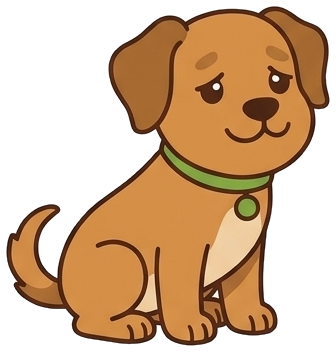
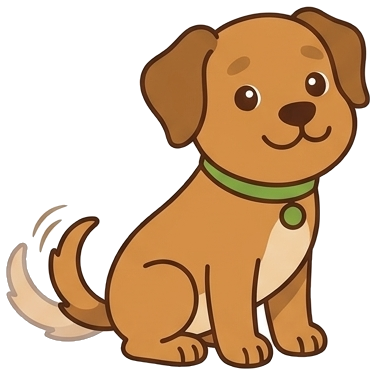
Art: four better poses, and the puppy is called Oreo [skip netlify]
Claude-Session: https://claude.ai/code/session_01CsV4nd8eAcV5zHHgHknrTq

diff --git a/tools/art/cut.py b/tools/art/cut.py
@@ -52,6 +52,7 @@ J=[
  ('07-with-treasures',['with-bandana','with-bed','with-bowl','with-kennel','with-rope-toy','with-ball'],'puppy',2,3,False),
  ('04-props',['bed','ball','bowl','bandana','kennel','rope-toy','stepping-stone','signpost','bush'],'props',3,3,False),
  ('09-awards',['medal','trophy','rosette','paw-badge','crown','shield','','','paw-shield'],'awards',3,3,False),
+ ('10-fixes',['listening','not-yet','trick-spin','with-bowl'],'puppy',2,2,False),   # replaces the weak first versions
  ('08-friends',['kitten','bunny','elephant','lion','giraffe','monkey','zebra','hippo','owl'],'friends',3,3,False),
 ]
 for src,names,d,r,c,t in J:

diff --git a/art/README.md b/art/README.md
@@ -1,5 +1,7 @@
 # Art
 
+The puppy is called **Oreo**. She is introduced to the child as the sister of Star, the first user's own dog.
+
 The mascot and all illustrations, made on 15 November 2026 with Google's Nano Banana image model. The prompts are in `prompts.md`. Nothing in this folder is shipped as it is: the app copies and shrinks what it uses.
 
 ## Rules for every picture
@@ -13,8 +15,8 @@ The mascot and all illustrations, made on 15 November 2026 with Google's Nano Ba
 
 | Folder | What | Files |
 |---|---|---|
-| `source/` | The sheets exactly as they came from the image model, plus the reference puppy | 11 |
-| `puppy/` | The puppy, one pose per file, transparent background | 28 |
+| `source/` | The sheets exactly as they came from the image model, plus the reference puppy | 12 |
+| `puppy/` | The puppy, one pose per file, transparent background | 29 |
 | `props/` | Treasures and pieces for the path and stories | 9 |
 | `awards/` | Medal, trophy, rosette, crown, badges | 7 |
 | `friends/` | Animal heads for child profile pictures | 9 |
@@ -30,7 +32,8 @@ The cut-outs were made from the sheets with `tools/art/cut.py`. Each is about 30
 | `happy` | Right answer | Good |
 | `celebrating` | Round finished, level up | Good |
 | `thinking` | While a question is open | Good |
-| `not-yet` | After a wrong answer | Usable. The eyes are a little sad; redo with a brighter look |
+| `not-yet` | After a wrong answer | Good (second version, sheet 10) |
+| `listening` | While the voice speaks | Good (sheet 10) |
 | `pointing` | Beside the explanation | Good |
 | `encouraging` | Hint offered | Good |
 | `proud` | End of a round | Good |
@@ -42,13 +45,12 @@ The cut-outs were made from the sheets with `tools/art/cut.py`. Each is about 30
 | `gift` | Something new unlocked | Good |
 | `yawning` | "That's enough for today" | Good |
 | `trick-beg`, `trick-high-five`, `trick-roll-over`, `trick-play-bow`, `trick-fetch` | Tricks earned by mastery | Usable. The eyes have a white ring the reference does not have |
-| `trick-spin` | Trick | Weak: it sits with motion lines. Redo |
+| `trick-spin` | Trick | Good (second version, sheet 10) |
 | `with-bandana`, `with-bed`, `with-kennel`, `with-rope-toy`, `with-ball` | The puppy with a treasure | Good |
-| `with-bowl` | The puppy with a treasure | Usable. The bowl is coral, close to red: redo with a brown or yellow bowl |
+| `with-bowl` | The puppy with a treasure | Good (second version, sheet 10, brown bowl) |
 
 ## Still to make
 
-- **Listening** (while the voice speaks). It was asked for on the reactions sheet but came out as a frowning duplicate of "thinking", which was thrown away.
 - **Sharper finals.** The cut-outs are soft when shown large on a good phone screen. Before launch, regenerate each pose the app really uses as a single image, with the same reference.
 - **Kenyan coins and notes** for the money game. These must be drawn from the real ones, not invented by an image model.
 
@@ -57,3 +59,4 @@ The cut-outs were made from the sheets with `tools/art/cut.py`. Each is about 30
 - The first "thinking" (sheet 01, fourth picture): the mouth turns down and it looks worried.
 - The "listening" attempt (sheet 02, fourth picture): same problem.
 - Two stray animal heads on the awards sheet (duplicates of the zebra and hippo).
+- The first `not-yet`, `trick-spin` and `with-bowl` (sad eyes, no real spin, a coral bowl). They are still on sheets 02, 03 and 07.

diff --git a/docs/decisions.md b/docs/decisions.md
@@ -32,6 +32,7 @@ Rows marked "proposed" are recommendations from the planning chat that Philipp h
 | 2026-11-15 | Current voice: Kokoro `af_heart` (American, warm) | Picked by Philipp from four samples |
 | 2026-11-15 | Next voice step: rewrite the script in warmer, fuller sentences and record every sentence whole with a directable engine. Decided (Philipp delegated the call). Equation sentences are the exception until the clip count is known: see the open question on whole-sentence equations | Terse wording and stitching are what still sound robotic |
 | 2026-11-15 | Mascot: the caramel puppy with the green collar (`art/source/puppy-reference.png`), made with Nano Banana. All art, the prompts and the rules are in `art/`. The puppy is animated in code by swapping poses and simple movement; Rive only later if the pilot justifies it | Chosen by Philipp. Costs nothing and stays consistent through the reference image |
+| 2026-11-15 | The puppy is called Oreo and is introduced as the sister of Star, the first user's own dog. The introduction needs new recorded sentences, which belong in the voice script rewrite | Philipp's decision |
 | 2026-11-15 | Hosting moves from Netlify to Cloudflare for both the live game and the new app | Netlify's free plan charges 15 credits per production deploy from a pool of 300 a month shared with Philipp's other sites; Cloudflare has no per-deploy cost and allows commercial use |
 | 2026-11-15 | Skill map for Stages 1 and 2 Number drafted from the published framework: `docs/skill-map.md`. Fill the Ten and Break a Ten go beyond Stage 2 and stay as stretch games. Money starts with Kenyan shillings, as a setting | Philipp delegated the call |
 | 2026-11-15 | "Do everything" is enforced by gates plus earned free play, not a full lock. Decided (Philipp delegated the call): the daily path must be finished before free play opens, and free play time is earned by it | Pure compulsion works against motivation |
@@ -45,7 +46,7 @@ Rows marked "proposed" are recommendations from the planning chat that Philipp h
 1. Monetisation is parked. Working idea, not decided: school licences first (per pupil per year, teacher dashboard), family subscription second, no ads and no selling to children.
 2. Skill map for Stages 1 and 2 Number: the planning chat drafts it; Philipp supplies or confirms against the official framework document. Until it lands, port the existing games and do not invent curriculum content.
 3. Voice engine for version 2 of the voice: choose from samples (OpenAI gpt-4o-mini-tts, ElevenLabs v3, Gemini TTS) or a human voice actor. Needs an account and API key from Philipp.
-4. Mascot: the look is decided (see `art/`). Still open: the puppy's name.
+4. Mascot: look and name are decided (Oreo, see `art/`). Still open: how Oreo is introduced to children other than the first user, who do not know Star.
 5. App name and positioning. Wording near "Cambridge" needs a legal check.
 6. The repository is public. Should it be private if this becomes a product?
 7. Budget and timeline for a pilot with 5 to 10 families.

diff --git a/art/prompts.md b/art/prompts.md
@@ -190,3 +190,18 @@ Colours: sunny yellow, golden, leaf green, cream, wood brown, soft orange. Do no
 No text, no numbers, no scenery, no ground shadow.
 ```
 
+## 10. Fixes for four weak poses
+
+Sheet: `source/10-fixes.jpg`
+
+```
+Same character as the reference image. A 2 x 2 grid on a pure white background, four clearly separated cells with generous white space between them. The SAME puppy in each cell: identical caramel fur, cream chest and belly, floppy ears, curled tail, the two small darker eyebrow marks, plain dark brown eyes with one small white highlight exactly as in the reference, dark brown nose, green collar with a round green tag, same proportions and the same bold dark brown outline.
+
+Four poses, full body:
+1. Listening: sitting, head cocked to one side, one ear lifted, eyes wide and attentive, small closed smile. Happy and interested, no frown.
+2. Kind encouragement: sitting, bright eyes, warm open smile, head slightly tilted, tail wagging. Cheerful and reassuring, not sad, eyebrows relaxed.
+3. Spinning: caught mid-spin on its hind legs, body twisted, ears and tail flying outwards, laughing.
+4. Eating from a wood-brown food bowl, tail up.
+
+Flat vector illustration, flat colours, no gradients, no texture. No red or blue anywhere. No text, no captions, no numbers, no scenery, no ground shadow.
+```
